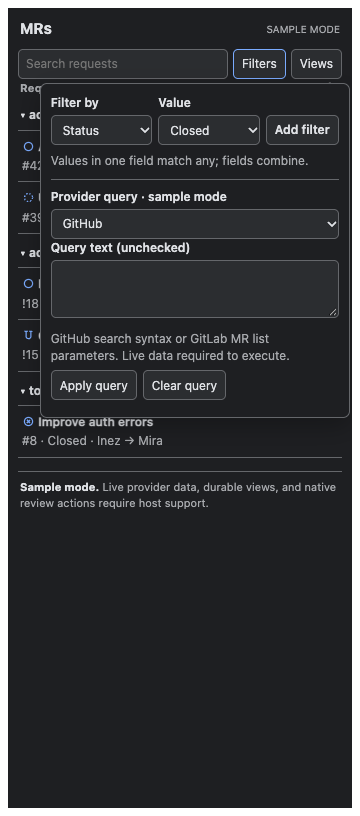
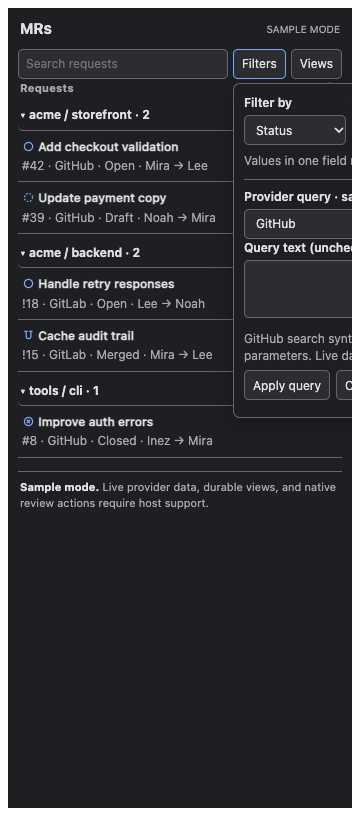
gnhf 1: Fixed all six compact MRs sidebar review findings and verified the updated panel.

Changed region(s): [[0.0917, 0.0919, 0.9778, 0.5515], [0.5194, 0.5208, 0.5806, 0.5515], [0.6417, 0.4902, 0.6722, 0.5208]]

diff --git a/plugins/mrs-panel-modern/panel/index.html b/plugins/mrs-panel-modern/panel/index.html
@@ -1,6 +1,6 @@
 <!doctype html><html lang="en"><head><meta charset="utf-8"><meta name="viewport" content="width=device-width,initial-scale=1"><title>MRs · sample mode</title><style>
 :root{font:12px/1.45 -apple-system,BlinkMacSystemFont,"Segoe UI",sans-serif;--bg:var(--orca-background,var(--background,#1e1f22));--fg:var(--orca-foreground,var(--foreground,#dfe1e5));--surface:var(--orca-card,var(--card,#2b2d30));--stroke:var(--orca-border,var(--border,#65676b));--muted:var(--orca-muted-foreground,var(--muted-foreground,#a7a9ad));--accent:var(--orca-primary,var(--primary,#6a99f8))}html.light{color-scheme:light}html.dark{color-scheme:dark}
-*{box-sizing:border-box}body{margin:0;min-width:0;background:var(--bg);color:var(--fg)}main{width:100%;min-width:0;padding:10px 10px 20px}header{display:flex;align-items:center;gap:8px;padding:0 2px 9px}h1{font-size:15px;margin:0}.badge{margin-left:auto;color:var(--muted);font-size:10px;white-space:nowrap}h2{margin:0 2px 5px;font-size:11px;color:var(--muted);letter-spacing:.02em}section+section{margin-top:10px}.toolbar{display:flex;gap:5px;position:relative}.search{flex:1;min-width:0}.field{min-width:0}.row{display:flex;flex-wrap:wrap;gap:6px}.row>.field{flex:1 1 100px}label{display:block;margin-bottom:4px;font-weight:600}select,input,textarea,button,summary{font:inherit;color:var(--fg)}select,input,textarea{width:100%;min-width:0;padding:4px 7px;border:1px solid var(--stroke);border-radius:5px;background:var(--surface)}select,input{height:30px}textarea{min-height:58px;resize:vertical}button,summary{min-height:30px;padding:5px 8px;border:1px solid var(--stroke);border-radius:5px;background:var(--surface);cursor:pointer}button:hover,summary:hover{border-color:var(--accent)}:is(select,input,textarea,button,summary):focus-visible{outline:2px solid var(--accent);outline-offset:2px}.menu{position:relative}.menu summary{list-style:none;white-space:nowrap}.menu summary::-webkit-details-marker{display:none}.menu-body{position:absolute;z-index:2;right:0;top:34px;width:min(310px,calc(100vw - 20px));padding:10px;border:1px solid var(--stroke);border-radius:7px;background:var(--bg);box-shadow:0 8px 24px #0004}.menu-body .row+ .row{margin-top:6px}#filter-menu .menu-body{right:-64px}.action{align-self:end;font-weight:600}.query-editor{margin-top:9px;padding-top:8px;border-top:1px solid var(--stroke)}.query-actions{display:flex;gap:6px;margin-top:6px}.query-error{color:var(--fg)}.chips{display:flex;flex-wrap:wrap;gap:5px;margin-top:6px}.chips:empty{display:none}.chip{max-width:100%;min-height:24px;padding:2px 7px;border-radius:14px;overflow:hidden;text-overflow:ellipsis;white-space:nowrap}.hint,.meta{color:var(--muted);overflow-wrap:anywhere}.hint{margin:7px 0 0}.notice{margin-top:13px;padding:7px 2px;border-top:1px solid var(--stroke);color:var(--muted);font-size:11px}.notice strong{color:var(--fg)}p{margin:0;overflow-wrap:anywhere}.result-heading{display:flex;align-items:baseline}.result-heading span{margin-left:auto;color:var(--muted)}.repo{min-width:0}.repo+.repo{margin-top:4px}.repo-title{display:block;width:100%;text-align:left;border:0;border-radius:0;border-bottom:1px solid var(--stroke);padding:5px 2px;background:transparent;font-weight:650;overflow-wrap:anywhere}.repo-title:hover,.mr:hover{background:var(--surface)}.mr{display:block;width:100%;text-align:left;border:0;border-bottom:1px solid var(--stroke);border-radius:0;padding:7px 4px;min-width:0;background:transparent}.mr-title{font-weight:550;overflow-wrap:anywhere}.meta{margin-top:2px}.status{display:inline-block;width:13px;height:13px;vertical-align:-2px;color:var(--accent)}.empty{padding:14px 2px;color:var(--muted)}.detail-back{margin-bottom:10px}.detail h2{color:var(--fg);font-size:15px;letter-spacing:0;margin:0 0 8px}.detail p{margin:6px 0}
+*{box-sizing:border-box}body{margin:0;min-width:0;background:var(--bg);color:var(--fg)}main{width:100%;min-width:0;padding:10px 10px 20px}header{display:flex;align-items:center;gap:8px;padding:0 2px 9px}h1{font-size:15px;margin:0}.badge{margin-left:auto;color:var(--muted);font-size:10px;white-space:nowrap}h2{margin:0 2px 5px;font-size:11px;color:var(--muted);letter-spacing:.02em}section+section{margin-top:10px}.toolbar{display:flex;gap:5px;position:relative}.search{flex:1;min-width:0}.field{min-width:0}.row{display:flex;flex-wrap:wrap;gap:6px}.row>.field{flex:1 1 100px}label{display:block;margin-bottom:4px;font-weight:600}select,input,textarea,button,summary{font:inherit;color:var(--fg)}select,input,textarea{width:100%;min-width:0;padding:4px 7px;border:1px solid var(--stroke);border-radius:5px;background:var(--surface)}select,input{height:30px}textarea{min-height:58px;resize:vertical}button,summary{min-height:30px;padding:5px 8px;border:1px solid var(--stroke);border-radius:5px;background:var(--surface);cursor:pointer}button:hover,summary:hover{border-color:var(--accent)}:is(select,input,textarea,button,summary):focus-visible{outline:2px solid var(--accent);outline-offset:2px}.menu{position:relative}.menu summary{list-style:none;white-space:nowrap}.menu summary::-webkit-details-marker{display:none}.menu-body{position:absolute;z-index:2;top:34px;width:min(310px,calc(100vw - 20px));padding:10px;border:1px solid var(--stroke);border-radius:7px;background:var(--bg);box-shadow:0 8px 24px #0004}.menu-body .row+ .row{margin-top:6px}.action{align-self:end;font-weight:600}.query-editor{margin-top:9px;padding-top:8px;border-top:1px solid var(--stroke)}.query-actions{display:flex;gap:6px;margin-top:6px}.query-error{color:var(--fg)}.chips{display:flex;flex-wrap:wrap;gap:5px;margin-top:6px}.chips:empty{display:none}.chip{max-width:100%;min-height:24px;padding:2px 7px;border-radius:14px;overflow:hidden;text-overflow:ellipsis;white-space:nowrap}.hint,.meta{color:var(--muted);overflow-wrap:anywhere}.hint{margin:7px 0 0}.notice{margin-top:13px;padding:7px 2px;border-top:1px solid var(--stroke);color:var(--muted);font-size:11px}.notice strong{color:var(--fg)}p{margin:0;overflow-wrap:anywhere}.result-heading{display:flex;align-items:baseline}.result-heading span{margin-left:auto;color:var(--muted)}.repo{min-width:0}.repo+.repo{margin-top:4px}.repo-title{display:block;width:100%;text-align:left;border:0;border-bottom:1px solid var(--stroke);padding:5px 2px;background:transparent;font-weight:650;overflow-wrap:anywhere}.repo-title:hover,.mr:hover{background:var(--surface)}.mr{display:block;width:100%;text-align:left;border:0;border-bottom:1px solid var(--stroke);border-radius:0;padding:7px 4px;min-width:0;background:transparent}.mr-title{font-weight:550;overflow-wrap:anywhere}.meta{margin-top:2px}.status{display:inline-block;width:13px;height:13px;vertical-align:-2px;color:var(--accent)}.empty{padding:14px 2px;color:var(--muted)}.detail-back{margin-bottom:10px}.detail h2{color:var(--fg);font-size:15px;letter-spacing:0;margin:0 0 8px}.detail p{margin:6px 0}
 </style></head><body><main>
 <header><h1>MRs</h1><span class="badge">SAMPLE MODE</span></header>
 <div id="list-view"><div class="toolbar"><input id="search" class="search" aria-label="Search sample requests" placeholder="Search requests"><details class="menu" id="filter-menu"><summary>Filters</summary><div class="menu-body"><div class="row"><div class="field"><label for="filter-field">Filter by</label><select id="filter-field"></select></div><div class="field"><label for="filter-value">Value</label><select id="filter-value"></select></div><button id="add-filter" class="action" type="button">Add filter</button></div><p class="hint">Values in one field match any; fields combine.</p><div class="query-editor"><div class="field"><label for="query-provider">Provider query · sample mode</label><select id="query-provider"><option>GitHub</option><option>GitLab</option></select></div><div class="field"><label for="provider-query">Query text (unchecked)</label><textarea id="provider-query" rows="2" spellcheck="false" autocomplete="off" aria-describedby="query-hint query-error"></textarea></div><p id="query-hint" class="hint">GitHub search syntax or GitLab MR list parameters. Live data required to execute.</p><div class="query-actions"><button id="apply-query" type="button">Apply query</button><button id="clear-query" type="button">Clear query</button></div><p id="query-error" class="hint query-error" role="alert"></p></div></div></details><details class="menu" id="view-menu"><summary>Views</summary><div class="menu-body"><div class="row"><div class="field"><label for="preset-list">Saved views · session only</label><select id="preset-list"><option value="">Choose a view</option></select></div><button id="apply-preset" class="action" type="button">Apply view</button></div><div class="row"><div class="field"><label for="preset-name">View name</label><input id="preset-name" maxlength="40" autocomplete="off" placeholder="Name this view"></div><button id="save-preset" class="action" type="button">Save view</button></div><p id="preset-message" class="hint" role="status" aria-live="polite">Views last until this panel closes.</p></div></details></div><div id="chips" class="chips" aria-label="Active filters"></div><section aria-labelledby="results-heading"><div class="result-heading"><h2 id="results-heading">Requests</h2><span id="result-count" role="status" aria-live="polite"></span></div><div id="results"></div></section></div><div id="detail-view" class="detail" hidden></div>
@@ -18,30 +18,31 @@ const option=(text,val)=>{const el=document.createElement('option');el.textConte
 Object.entries(fields).forEach(([key,label])=>field.append(option(label,key)));
 function updateValues(){const previous=value.value;value.replaceChildren();[...new Set(items.map(item=>item[field.value]))].sort().forEach(v=>value.append(option(v,v)));if([...value.options].some(o=>o.value===previous))value.value=previous}
 function render(){
-$('chips').replaceChildren();filters.forEach(({key,val})=>{const chip=document.createElement('button');chip.type='button';chip.className='chip';chip.setAttribute('aria-label','Remove '+fields[key]+': '+val+' filter');chip.title=fields[key]+': '+val;chip.textContent=fields[key]+': '+val+' ×';chip.addEventListener('click',()=>{filters=filters.filter(f=>f.key!==key||f.val!==val);render();$('add-filter').focus()});$('chips').append(chip)});
+$('chips').replaceChildren();filters.forEach(({key,val})=>{const chip=document.createElement('button');chip.type='button';chip.className='chip';chip.setAttribute('aria-label','Remove '+fields[key]+': '+val+' filter');chip.title=fields[key]+': '+val;chip.textContent=fields[key]+': '+val+' ×';chip.addEventListener('click',()=>{filters=filters.filter(f=>f.key!==key||f.val!==val);render();$('filter-menu').querySelector('summary').focus()});$('chips').append(chip)});
 if(nativeQuery.raw.trim()){const chip=document.createElement('span');chip.className='chip';chip.textContent=nativeQuery.provider+' query · not executed';$('chips').append(chip);$('result-count').textContent='Not executed';$('results').replaceChildren();const empty=document.createElement('p');empty.className='empty';empty.textContent='Not executed in sample mode — requires live provider data.';$('results').append(empty);return}
 const query=$('search').value.trim().toLowerCase();const shown=items.filter(item=>filters.every(({key})=>filters.some(f=>f.key===key&&f.val===item[key]))&&(!query||[item.title,item.id,item.repo,item.author].some(v=>v.toLowerCase().includes(query))));$('result-count').textContent=shown.length+' of '+items.length;const results=$('results');results.replaceChildren();
 if(!shown.length){const empty=document.createElement('p');empty.className='empty';empty.textContent='No sample MRs match these filters. Remove a filter to see more.';results.append(empty);return}
 const groups=new Map();shown.forEach(item=>{if(!groups.has(item.repo))groups.set(item.repo,[]);groups.get(item.repo).push(item)});
-groups.forEach((rows,repo)=>{const section=document.createElement('section');section.className='repo';section.setAttribute('aria-label',repo);const heading=document.createElement('button');heading.type='button';heading.className='repo-title';heading.textContent=(collapsed.has(repo)?'▸ ':'▾ ')+repo+' · '+rows.length;heading.setAttribute('aria-expanded',String(!collapsed.has(repo)));heading.addEventListener('click',()=>{collapsed.has(repo)?collapsed.delete(repo):collapsed.add(repo);render();results.querySelector('[aria-label="'+repo+'"] .repo-title').focus()});section.append(heading);if(!collapsed.has(repo))rows.forEach(item=>{const row=document.createElement('button');row.type='button';row.className='mr';row.setAttribute('aria-label',item.title+' details');const title=document.createElement('div');title.className='mr-title';const icon=document.createElement('span');icon.className='status';icon.setAttribute('aria-hidden','true');icon.innerHTML='<svg viewBox="0 0 16 16" fill="none" stroke="currentColor" stroke-width="1.5">'+({Open:'<circle cx="8" cy="8" r="5"/>',Draft:'<circle cx="8" cy="8" r="5" stroke-dasharray="2 2"/>',Merged:'<path d="M5 3v6a3 3 0 0 0 6 0V3M3 3h4M9 3h4"/>',Closed:'<circle cx="8" cy="8" r="5"/><path d="m6 6 4 4m0-4-4 4"/>'}[item.status])+'</svg>';title.append(icon,' '+item.title);const meta=document.createElement('div');meta.className='meta';meta.textContent=item.id+' · '+item.status+' · '+item.author+' → '+item.assignee;row.append(title,meta);row.addEventListener('click',()=>showDetail(item));section.append(row)});results.append(section)})}
+groups.forEach((rows,repo)=>{const section=document.createElement('section');section.className='repo';section.setAttribute('aria-label',repo);const heading=document.createElement('button');heading.type='button';heading.className='repo-title';heading.textContent=(collapsed.has(repo)?'▸ ':'▾ ')+repo+' · '+rows.length;heading.setAttribute('aria-expanded',String(!collapsed.has(repo)));heading.addEventListener('click',()=>{collapsed.has(repo)?collapsed.delete(repo):collapsed.add(repo);render();results.querySelector('[aria-label="'+repo+'"] .repo-title').focus()});section.append(heading);if(!collapsed.has(repo))rows.forEach(item=>{const row=document.createElement('button');row.type='button';row.className='mr';row.setAttribute('aria-label',item.title+' details');const title=document.createElement('div');title.className='mr-title';const icon=document.createElement('span');icon.className='status';icon.setAttribute('aria-hidden','true');icon.innerHTML='<svg viewBox="0 0 16 16" fill="none" stroke="currentColor" stroke-width="1.5">'+({Open:'<circle cx="8" cy="8" r="5"/>',Draft:'<circle cx="8" cy="8" r="5" stroke-dasharray="2 2"/>',Merged:'<path d="M5 3v6a3 3 0 0 0 6 0V3M3 3h4M9 3h4"/>',Closed:'<circle cx="8" cy="8" r="5"/><path d="m6 6 4 4m0-4-4 4"/>'}[item.status])+'</svg>';title.append(icon,' '+item.title);const meta=document.createElement('div');meta.className='meta';meta.textContent=item.id+' · '+item.provider+' · '+item.status+' · '+item.author+' → '+item.assignee;row.append(title,meta);row.addEventListener('click',()=>showDetail(item));section.append(row)});results.append(section)})}
 function showDetail(item){selected=item;$('list-view').hidden=true;const detail=$('detail-view');detail.hidden=false;detail.replaceChildren();const back=document.createElement('button');back.type='button';back.className='detail-back';back.textContent='← Requests';back.addEventListener('click',()=>{detail.hidden=true;$('list-view').hidden=false;const row=[...document.querySelectorAll('.mr')].find(el=>el.getAttribute('aria-label')===selected.title+' details');(row||$('search')).focus()});const title=document.createElement('h2');title.textContent=item.title;detail.append(back,title);for(const [label,text] of [['Request',item.repo+' '+item.id],['Provider',item.provider],['Status',item.status],['Author',item.author],['Assignee',item.assignee],['Reviewer',item.reviewer]]){const p=document.createElement('p');p.textContent=label+': '+text;detail.append(p)}back.focus()}
 function addFilter(){const key=field.value,val=value.value;if(val&&!filters.some(f=>f.key===key&&f.val===val))filters.push({key,val});render()}
 function queryError(provider,raw){
- const text=raw.trim();if(!text)return '';
+ const text=raw.trim();if(provider==='GitLab'&&/[\x00-\x1f\x7f-\x9f]/.test(raw))return 'Enter valid GitLab query parameters.';if(!text)return '';
  if(/^(?:[a-z][a-z\d+.-]*:\/\/|www\.|\/)/i.test(text))return 'Enter query text, not an API endpoint.';
  if(provider==='GitHub')return '';
- if(/[^\x20-\x7e]/.test(raw)||/(?:^|[^%])%(?![\da-f]{2})|%[\da-f](?![\da-f])/i.test(raw))return 'Enter valid GitLab query parameters.';
+ if(/%(?![\da-f]{2})/i.test(raw))return 'Enter valid GitLab query parameters.';
  const parts=text.replace(/^\?/,'').split('&');
  if(parts.some(part=>!part.includes('=')||!part.slice(0,part.indexOf('='))||/[\s#?:/]/.test(part.slice(0,part.indexOf('=')))))return 'Enter GitLab key=value parameters separated by &.';
- if(parts.some(part=>/^(?:private_token|access_token|oauth_token|authorization|password|token|sudo)(?:\[|$)/i.test(new URLSearchParams(part).keys().next().value)))return 'Credential and control parameters are not accepted.';
+ let keys;try{keys=parts.map(part=>{const [key,...rest]=part.split('=');const decodedKey=decodeURIComponent(key.replace(/\+/g,' ')),decodedValue=decodeURIComponent(rest.join('=').replace(/\+/g,' '));if(/[\x00-\x1f\x7f-\x9f]/.test(decodedKey+decodedValue))throw Error();return decodedKey})}catch{return 'Enter valid GitLab query parameters.'}
+ if(keys.some(key=>/^(?:private_token|access_token|oauth_token|job_token|authorization|password|token|sudo)(?:\[|$)/i.test(key)))return 'Credential and control parameters are not accepted.';
  return '';
 }
 function resetDetail(){selected=null;$('detail-view').hidden=true;$('detail-view').replaceChildren();$('list-view').hidden=false}
 function applyQuery(){const provider=$('query-provider').value,raw=$('provider-query').value,error=queryError(provider,raw);$('query-error').textContent=error;if(error){$('provider-query').setAttribute('aria-invalid','true');$('provider-query').focus();return}$('provider-query').removeAttribute('aria-invalid');nativeQuery={provider,raw};resetDetail();render()}
 function clearQuery(){$('provider-query').value='';$('query-error').textContent='';$('provider-query').removeAttribute('aria-invalid');nativeQuery={provider:$('query-provider').value,raw:''};resetDetail();render()}
-field.addEventListener('change',updateValues);$('search').addEventListener('input',render);$('add-filter').addEventListener('click',addFilter);for(const control of [field,value])control.addEventListener('keydown',e=>{if(e.key==='Enter'){e.preventDefault();addFilter()}});for(const menu of document.querySelectorAll('.menu'))menu.addEventListener('keydown',e=>{if(e.key==='Escape'){menu.open=false;menu.querySelector('summary').focus()}});
+field.addEventListener('change',updateValues);$('search').addEventListener('input',render);$('add-filter').addEventListener('click',addFilter);for(const control of [field,value])control.addEventListener('keydown',e=>{if(e.key==='Enter'){e.preventDefault();addFilter()}});for(const menu of document.querySelectorAll('.menu')){menu.addEventListener('toggle',()=>{if(!menu.open)return;for(const other of document.querySelectorAll('.menu'))if(other!==menu)other.open=false;const body=menu.querySelector('.menu-body'),anchor=menu.getBoundingClientRect(),width=body.getBoundingClientRect().width;body.style.left=Math.max(10,Math.min(anchor.left,innerWidth-10-width))-anchor.left+'px'});menu.addEventListener('keydown',e=>{if(e.key==='Escape'){menu.open=false;menu.querySelector('summary').focus()}})}
 $('apply-query').addEventListener('click',applyQuery);$('clear-query').addEventListener('click',clearQuery);
-$('save-preset').addEventListener('click',()=>{const name=$('preset-name').value.trim();if(!name){$('preset-message').textContent='Enter a view name first.';$('preset-name').focus();return}presets.set(name,{filters:filters.map(f=>({...f})),search:$('search').value});const list=$('preset-list');list.replaceChildren(option('Choose a view',''));presets.forEach((_,label)=>list.append(option(label,label)));list.value=name;$('preset-message').textContent='Saved “'+name+'” for this panel session.'});
-$('apply-preset').addEventListener('click',()=>{const name=$('preset-list').value;if(!presets.has(name)){$('preset-message').textContent='Choose a saved view first.';return}const saved=presets.get(name);filters=saved.filters.map(f=>({...f}));$('search').value=saved.search;render();$('preset-message').textContent='Applied “'+name+'”.'});
+$('save-preset').addEventListener('click',()=>{const name=$('preset-name').value.trim();if(!name){$('preset-message').textContent='Enter a view name first.';$('preset-name').focus();return}presets.set(name,{filters:filters.map(f=>({...f})),search:$('search').value,nativeQuery:{...nativeQuery}});const list=$('preset-list');list.replaceChildren(option('Choose a view',''));presets.forEach((_,label)=>list.append(option(label,label)));list.value=name;$('preset-message').textContent='Saved “'+name+'” for this panel session.'});
+$('apply-preset').addEventListener('click',()=>{const name=$('preset-list').value;if(!presets.has(name)){$('preset-message').textContent='Choose a saved view first.';return}const saved=presets.get(name);filters=saved.filters.map(f=>({...f}));$('search').value=saved.search;nativeQuery={...saved.nativeQuery};$('query-provider').value=nativeQuery.provider;$('provider-query').value=nativeQuery.raw;$('query-error').textContent='';$('provider-query').removeAttribute('aria-invalid');resetDetail();render();$('preset-message').textContent='Applied “'+name+'”.'});
 updateValues();render();
 </script></body></html>

diff --git a/plugins/mrs-panel/panel/index.html b/plugins/mrs-panel/panel/index.html
@@ -1,6 +1,6 @@
 <!doctype html><html lang="en"><head><meta charset="utf-8"><meta name="viewport" content="width=device-width,initial-scale=1"><title>MRs · sample mode</title><style>
 :root{font:12px/1.45 -apple-system,BlinkMacSystemFont,"Segoe UI",sans-serif;--bg:var(--orca-background,var(--background,#1e1f22));--fg:var(--orca-foreground,var(--foreground,#dfe1e5));--surface:var(--orca-card,var(--card,#2b2d30));--stroke:var(--orca-border,var(--border,#65676b));--muted:var(--orca-muted-foreground,var(--muted-foreground,#a7a9ad));--accent:var(--orca-primary,var(--primary,#6a99f8))}html.light{color-scheme:light}html.dark{color-scheme:dark}
-*{box-sizing:border-box}body{margin:0;min-width:0;background:var(--bg);color:var(--fg)}main{width:100%;min-width:0;padding:10px 10px 20px}header{display:flex;align-items:center;gap:8px;padding:0 2px 9px}h1{font-size:15px;margin:0}.badge{margin-left:auto;color:var(--muted);font-size:10px;white-space:nowrap}h2{margin:0 2px 5px;font-size:11px;color:var(--muted);letter-spacing:.02em}section+section{margin-top:10px}.toolbar{display:flex;gap:5px;position:relative}.search{flex:1;min-width:0}.field{min-width:0}.row{display:flex;flex-wrap:wrap;gap:6px}.row>.field{flex:1 1 100px}label{display:block;margin-bottom:4px;font-weight:600}select,input,textarea,button,summary{font:inherit;color:var(--fg)}select,input,textarea{width:100%;min-width:0;padding:4px 7px;border:1px solid var(--stroke);border-radius:5px;background:var(--surface)}select,input{height:30px}textarea{min-height:58px;resize:vertical}button,summary{min-height:30px;padding:5px 8px;border:1px solid var(--stroke);border-radius:5px;background:var(--surface);cursor:pointer}button:hover,summary:hover{border-color:var(--accent)}:is(select,input,textarea,button,summary):focus-visible{outline:2px solid var(--accent);outline-offset:2px}.menu{position:relative}.menu summary{list-style:none;white-space:nowrap}.menu summary::-webkit-details-marker{display:none}.menu-body{position:absolute;z-index:2;right:0;top:34px;width:min(310px,calc(100vw - 20px));padding:10px;border:1px solid var(--stroke);border-radius:7px;background:var(--bg);box-shadow:0 8px 24px #0004}.menu-body .row+ .row{margin-top:6px}#filter-menu .menu-body{right:-64px}.action{align-self:end;font-weight:600}.query-editor{margin-top:9px;padding-top:8px;border-top:1px solid var(--stroke)}.query-actions{display:flex;gap:6px;margin-top:6px}.query-error{color:var(--fg)}.chips{display:flex;flex-wrap:wrap;gap:5px;margin-top:6px}.chips:empty{display:none}.chip{max-width:100%;min-height:24px;padding:2px 7px;border-radius:14px;overflow:hidden;text-overflow:ellipsis;white-space:nowrap}.hint,.meta{color:var(--muted);overflow-wrap:anywhere}.hint{margin:7px 0 0}.notice{margin-top:13px;padding:7px 2px;border-top:1px solid var(--stroke);color:var(--muted);font-size:11px}.notice strong{color:var(--fg)}p{margin:0;overflow-wrap:anywhere}.result-heading{display:flex;align-items:baseline}.result-heading span{margin-left:auto;color:var(--muted)}.repo{min-width:0}.repo+.repo{margin-top:4px}.repo-title{display:block;width:100%;text-align:left;border:0;border-radius:0;border-bottom:1px solid var(--stroke);padding:5px 2px;background:transparent;font-weight:650;overflow-wrap:anywhere}.repo-title:hover,.mr:hover{background:var(--surface)}.mr{display:block;width:100%;text-align:left;border:0;border-bottom:1px solid var(--stroke);border-radius:0;padding:7px 4px;min-width:0;background:transparent}.mr-title{font-weight:550;overflow-wrap:anywhere}.meta{margin-top:2px}.status{display:inline-block;width:13px;height:13px;vertical-align:-2px;color:var(--accent)}.empty{padding:14px 2px;color:var(--muted)}.detail-back{margin-bottom:10px}.detail h2{color:var(--fg);font-size:15px;letter-spacing:0;margin:0 0 8px}.detail p{margin:6px 0}
+*{box-sizing:border-box}body{margin:0;min-width:0;background:var(--bg);color:var(--fg)}main{width:100%;min-width:0;padding:10px 10px 20px}header{display:flex;align-items:center;gap:8px;padding:0 2px 9px}h1{font-size:15px;margin:0}.badge{margin-left:auto;color:var(--muted);font-size:10px;white-space:nowrap}h2{margin:0 2px 5px;font-size:11px;color:var(--muted);letter-spacing:.02em}section+section{margin-top:10px}.toolbar{display:flex;gap:5px;position:relative}.search{flex:1;min-width:0}.field{min-width:0}.row{display:flex;flex-wrap:wrap;gap:6px}.row>.field{flex:1 1 100px}label{display:block;margin-bottom:4px;font-weight:600}select,input,textarea,button,summary{font:inherit;color:var(--fg)}select,input,textarea{width:100%;min-width:0;padding:4px 7px;border:1px solid var(--stroke);border-radius:5px;background:var(--surface)}select,input{height:30px}textarea{min-height:58px;resize:vertical}button,summary{min-height:30px;padding:5px 8px;border:1px solid var(--stroke);border-radius:5px;background:var(--surface);cursor:pointer}button:hover,summary:hover{border-color:var(--accent)}:is(select,input,textarea,button,summary):focus-visible{outline:2px solid var(--accent);outline-offset:2px}.menu{position:relative}.menu summary{list-style:none;white-space:nowrap}.menu summary::-webkit-details-marker{display:none}.menu-body{position:absolute;z-index:2;top:34px;width:min(310px,calc(100vw - 20px));padding:10px;border:1px solid var(--stroke);border-radius:7px;background:var(--bg);box-shadow:0 8px 24px #0004}.menu-body .row+ .row{margin-top:6px}.action{align-self:end;font-weight:600}.query-editor{margin-top:9px;padding-top:8px;border-top:1px solid var(--stroke)}.query-actions{display:flex;gap:6px;margin-top:6px}.query-error{color:var(--fg)}.chips{display:flex;flex-wrap:wrap;gap:5px;margin-top:6px}.chips:empty{display:none}.chip{max-width:100%;min-height:24px;padding:2px 7px;border-radius:14px;overflow:hidden;text-overflow:ellipsis;white-space:nowrap}.hint,.meta{color:var(--muted);overflow-wrap:anywhere}.hint{margin:7px 0 0}.notice{margin-top:13px;padding:7px 2px;border-top:1px solid var(--stroke);color:var(--muted);font-size:11px}.notice strong{color:var(--fg)}p{margin:0;overflow-wrap:anywhere}.result-heading{display:flex;align-items:baseline}.result-heading span{margin-left:auto;color:var(--muted)}.repo{min-width:0}.repo+.repo{margin-top:4px}.repo-title{display:block;width:100%;text-align:left;border:0;border-bottom:1px solid var(--stroke);padding:5px 2px;background:transparent;font-weight:650;overflow-wrap:anywhere}.repo-title:hover,.mr:hover{background:var(--surface)}.mr{display:block;width:100%;text-align:left;border:0;border-bottom:1px solid var(--stroke);border-radius:0;padding:7px 4px;min-width:0;background:transparent}.mr-title{font-weight:550;overflow-wrap:anywhere}.meta{margin-top:2px}.status{display:inline-block;width:13px;height:13px;vertical-align:-2px;color:var(--accent)}.empty{padding:14px 2px;color:var(--muted)}.detail-back{margin-bottom:10px}.detail h2{color:var(--fg);font-size:15px;letter-spacing:0;margin:0 0 8px}.detail p{margin:6px 0}
 </style></head><body><main>
 <header><h1>MRs</h1><span class="badge">SAMPLE MODE</span></header>
 <div id="list-view"><div class="toolbar"><input id="search" class="search" aria-label="Search sample requests" placeholder="Search requests"><details class="menu" id="filter-menu"><summary>Filters</summary><div class="menu-body"><div class="row"><div class="field"><label for="filter-field">Filter by</label><select id="filter-field"></select></div><div class="field"><label for="filter-value">Value</label><select id="filter-value"></select></div><button id="add-filter" class="action" type="button">Add filter</button></div><p class="hint">Values in one field match any; fields combine.</p><div class="query-editor"><div class="field"><label for="query-provider">Provider query · sample mode</label><select id="query-provider"><option>GitHub</option><option>GitLab</option></select></div><div class="field"><label for="provider-query">Query text (unchecked)</label><textarea id="provider-query" rows="2" spellcheck="false" autocomplete="off" aria-describedby="query-hint query-error"></textarea></div><p id="query-hint" class="hint">GitHub search syntax or GitLab MR list parameters. Live data required to execute.</p><div class="query-actions"><button id="apply-query" type="button">Apply query</button><button id="clear-query" type="button">Clear query</button></div><p id="query-error" class="hint query-error" role="alert"></p></div></div></details><details class="menu" id="view-menu"><summary>Views</summary><div class="menu-body"><div class="row"><div class="field"><label for="preset-list">Saved views · session only</label><select id="preset-list"><option value="">Choose a view</option></select></div><button id="apply-preset" class="action" type="button">Apply view</button></div><div class="row"><div class="field"><label for="preset-name">View name</label><input id="preset-name" maxlength="40" autocomplete="off" placeholder="Name this view"></div><button id="save-preset" class="action" type="button">Save view</button></div><p id="preset-message" class="hint" role="status" aria-live="polite">Views last until this panel closes.</p></div></details></div><div id="chips" class="chips" aria-label="Active filters"></div><section aria-labelledby="results-heading"><div class="result-heading"><h2 id="results-heading">Requests</h2><span id="result-count" role="status" aria-live="polite"></span></div><div id="results"></div></section></div><div id="detail-view" class="detail" hidden></div>
@@ -18,30 +18,31 @@ const option=(text,val)=>{const el=document.createElement('option');el.textConte
 Object.entries(fields).forEach(([key,label])=>field.append(option(label,key)));
 function updateValues(){const previous=value.value;value.replaceChildren();[...new Set(items.map(item=>item[field.value]))].sort().forEach(v=>value.append(option(v,v)));if([...value.options].some(o=>o.value===previous))value.value=previous}
 function render(){
-$('chips').replaceChildren();filters.forEach(({key,val})=>{const chip=document.createElement('button');chip.type='button';chip.className='chip';chip.setAttribute('aria-label','Remove '+fields[key]+': '+val+' filter');chip.title=fields[key]+': '+val;chip.textContent=fields[key]+': '+val+' ×';chip.addEventListener('click',()=>{filters=filters.filter(f=>f.key!==key||f.val!==val);render();$('add-filter').focus()});$('chips').append(chip)});
+$('chips').replaceChildren();filters.forEach(({key,val})=>{const chip=document.createElement('button');chip.type='button';chip.className='chip';chip.setAttribute('aria-label','Remove '+fields[key]+': '+val+' filter');chip.title=fields[key]+': '+val;chip.textContent=fields[key]+': '+val+' ×';chip.addEventListener('click',()=>{filters=filters.filter(f=>f.key!==key||f.val!==val);render();$('filter-menu').querySelector('summary').focus()});$('chips').append(chip)});
 if(nativeQuery.raw.trim()){const chip=document.createElement('span');chip.className='chip';chip.textContent=nativeQuery.provider+' query · not executed';$('chips').append(chip);$('result-count').textContent='Not executed';$('results').replaceChildren();const empty=document.createElement('p');empty.className='empty';empty.textContent='Not executed in sample mode — requires live provider data.';$('results').append(empty);return}
 const query=$('search').value.trim().toLowerCase();const shown=items.filter(item=>filters.every(({key})=>filters.some(f=>f.key===key&&f.val===item[key]))&&(!query||[item.title,item.id,item.repo,item.author].some(v=>v.toLowerCase().includes(query))));$('result-count').textContent=shown.length+' of '+items.length;const results=$('results');results.replaceChildren();
 if(!shown.length){const empty=document.createElement('p');empty.className='empty';empty.textContent='No sample MRs match these filters. Remove a filter to see more.';results.append(empty);return}
 const groups=new Map();shown.forEach(item=>{if(!groups.has(item.repo))groups.set(item.repo,[]);groups.get(item.repo).push(item)});
-groups.forEach((rows,repo)=>{const section=document.createElement('section');section.className='repo';section.setAttribute('aria-label',repo);const heading=document.createElement('button');heading.type='button';heading.className='repo-title';heading.textContent=(collapsed.has(repo)?'▸ ':'▾ ')+repo+' · '+rows.length;heading.setAttribute('aria-expanded',String(!collapsed.has(repo)));heading.addEventListener('click',()=>{collapsed.has(repo)?collapsed.delete(repo):collapsed.add(repo);render();results.querySelector('[aria-label="'+repo+'"] .repo-title').focus()});section.append(heading);if(!collapsed.has(repo))rows.forEach(item=>{const row=document.createElement('button');row.type='button';row.className='mr';row.setAttribute('aria-label',item.title+' details');const title=document.createElement('div');title.className='mr-title';const icon=document.createElement('span');icon.className='status';icon.setAttribute('aria-hidden','true');icon.innerHTML='<svg viewBox="0 0 16 16" fill="none" stroke="currentColor" stroke-width="1.5">'+({Open:'<circle cx="8" cy="8" r="5"/>',Draft:'<circle cx="8" cy="8" r="5" stroke-dasharray="2 2"/>',Merged:'<path d="M5 3v6a3 3 0 0 0 6 0V3M3 3h4M9 3h4"/>',Closed:'<circle cx="8" cy="8" r="5"/><path d="m6 6 4 4m0-4-4 4"/>'}[item.status])+'</svg>';title.append(icon,' '+item.title);const meta=document.createElement('div');meta.className='meta';meta.textContent=item.id+' · '+item.status+' · '+item.author+' → '+item.assignee;row.append(title,meta);row.addEventListener('click',()=>showDetail(item));section.append(row)});results.append(section)})}
+groups.forEach((rows,repo)=>{const section=document.createElement('section');section.className='repo';section.setAttribute('aria-label',repo);const heading=document.createElement('button');heading.type='button';heading.className='repo-title';heading.textContent=(collapsed.has(repo)?'▸ ':'▾ ')+repo+' · '+rows.length;heading.setAttribute('aria-expanded',String(!collapsed.has(repo)));heading.addEventListener('click',()=>{collapsed.has(repo)?collapsed.delete(repo):collapsed.add(repo);render();results.querySelector('[aria-label="'+repo+'"] .repo-title').focus()});section.append(heading);if(!collapsed.has(repo))rows.forEach(item=>{const row=document.createElement('button');row.type='button';row.className='mr';row.setAttribute('aria-label',item.title+' details');const title=document.createElement('div');title.className='mr-title';const icon=document.createElement('span');icon.className='status';icon.setAttribute('aria-hidden','true');icon.innerHTML='<svg viewBox="0 0 16 16" fill="none" stroke="currentColor" stroke-width="1.5">'+({Open:'<circle cx="8" cy="8" r="5"/>',Draft:'<circle cx="8" cy="8" r="5" stroke-dasharray="2 2"/>',Merged:'<path d="M5 3v6a3 3 0 0 0 6 0V3M3 3h4M9 3h4"/>',Closed:'<circle cx="8" cy="8" r="5"/><path d="m6 6 4 4m0-4-4 4"/>'}[item.status])+'</svg>';title.append(icon,' '+item.title);const meta=document.createElement('div');meta.className='meta';meta.textContent=item.id+' · '+item.provider+' · '+item.status+' · '+item.author+' → '+item.assignee;row.append(title,meta);row.addEventListener('click',()=>showDetail(item));section.append(row)});results.append(section)})}
 function showDetail(item){selected=item;$('list-view').hidden=true;const detail=$('detail-view');detail.hidden=false;detail.replaceChildren();const back=document.createElement('button');back.type='button';back.className='detail-back';back.textContent='← Requests';back.addEventListener('click',()=>{detail.hidden=true;$('list-view').hidden=false;const row=[...document.querySelectorAll('.mr')].find(el=>el.getAttribute('aria-label')===selected.title+' details');(row||$('search')).focus()});const title=document.createElement('h2');title.textContent=item.title;detail.append(back,title);for(const [label,text] of [['Request',item.repo+' '+item.id],['Provider',item.provider],['Status',item.status],['Author',item.author],['Assignee',item.assignee],['Reviewer',item.reviewer]]){const p=document.createElement('p');p.textContent=label+': '+text;detail.append(p)}back.focus()}
 function addFilter(){const key=field.value,val=value.value;if(val&&!filters.some(f=>f.key===key&&f.val===val))filters.push({key,val});render()}
 function queryError(provider,raw){
- const text=raw.trim();if(!text)return '';
+ const text=raw.trim();if(provider==='GitLab'&&/[\x00-\x1f\x7f-\x9f]/.test(raw))return 'Enter valid GitLab query parameters.';if(!text)return '';
  if(/^(?:[a-z][a-z\d+.-]*:\/\/|www\.|\/)/i.test(text))return 'Enter query text, not an API endpoint.';
  if(provider==='GitHub')return '';
- if(/[^\x20-\x7e]/.test(raw)||/(?:^|[^%])%(?![\da-f]{2})|%[\da-f](?![\da-f])/i.test(raw))return 'Enter valid GitLab query parameters.';
+ if(/%(?![\da-f]{2})/i.test(raw))return 'Enter valid GitLab query parameters.';
  const parts=text.replace(/^\?/,'').split('&');
  if(parts.some(part=>!part.includes('=')||!part.slice(0,part.indexOf('='))||/[\s#?:/]/.test(part.slice(0,part.indexOf('=')))))return 'Enter GitLab key=value parameters separated by &.';
- if(parts.some(part=>/^(?:private_token|access_token|oauth_token|authorization|password|token|sudo)(?:\[|$)/i.test(new URLSearchParams(part).keys().next().value)))return 'Credential and control parameters are not accepted.';
+ let keys;try{keys=parts.map(part=>{const [key,...rest]=part.split('=');const decodedKey=decodeURIComponent(key.replace(/\+/g,' ')),decodedValue=decodeURIComponent(rest.join('=').replace(/\+/g,' '));if(/[\x00-\x1f\x7f-\x9f]/.test(decodedKey+decodedValue))throw Error();return decodedKey})}catch{return 'Enter valid GitLab query parameters.'}
+ if(keys.some(key=>/^(?:private_token|access_token|oauth_token|job_token|authorization|password|token|sudo)(?:\[|$)/i.test(key)))return 'Credential and control parameters are not accepted.';
  return '';
 }
 function resetDetail(){selected=null;$('detail-view').hidden=true;$('detail-view').replaceChildren();$('list-view').hidden=false}
 function applyQuery(){const provider=$('query-provider').value,raw=$('provider-query').value,error=queryError(provider,raw);$('query-error').textContent=error;if(error){$('provider-query').setAttribute('aria-invalid','true');$('provider-query').focus();return}$('provider-query').removeAttribute('aria-invalid');nativeQuery={provider,raw};resetDetail();render()}
 function clearQuery(){$('provider-query').value='';$('query-error').textContent='';$('provider-query').removeAttribute('aria-invalid');nativeQuery={provider:$('query-provider').value,raw:''};resetDetail();render()}
-field.addEventListener('change',updateValues);$('search').addEventListener('input',render);$('add-filter').addEventListener('click',addFilter);for(const control of [field,value])control.addEventListener('keydown',e=>{if(e.key==='Enter'){e.preventDefault();addFilter()}});for(const menu of document.querySelectorAll('.menu'))menu.addEventListener('keydown',e=>{if(e.key==='Escape'){menu.open=false;menu.querySelector('summary').focus()}});
+field.addEventListener('change',updateValues);$('search').addEventListener('input',render);$('add-filter').addEventListener('click',addFilter);for(const control of [field,value])control.addEventListener('keydown',e=>{if(e.key==='Enter'){e.preventDefault();addFilter()}});for(const menu of document.querySelectorAll('.menu')){menu.addEventListener('toggle',()=>{if(!menu.open)return;for(const other of document.querySelectorAll('.menu'))if(other!==menu)other.open=false;const body=menu.querySelector('.menu-body'),anchor=menu.getBoundingClientRect(),width=body.getBoundingClientRect().width;body.style.left=Math.max(10,Math.min(anchor.left,innerWidth-10-width))-anchor.left+'px'});menu.addEventListener('keydown',e=>{if(e.key==='Escape'){menu.open=false;menu.querySelector('summary').focus()}})}
 $('apply-query').addEventListener('click',applyQuery);$('clear-query').addEventListener('click',clearQuery);
-$('save-preset').addEventListener('click',()=>{const name=$('preset-name').value.trim();if(!name){$('preset-message').textContent='Enter a view name first.';$('preset-name').focus();return}presets.set(name,{filters:filters.map(f=>({...f})),search:$('search').value});const list=$('preset-list');list.replaceChildren(option('Choose a view',''));presets.forEach((_,label)=>list.append(option(label,label)));list.value=name;$('preset-message').textContent='Saved “'+name+'” for this panel session.'});
-$('apply-preset').addEventListener('click',()=>{const name=$('preset-list').value;if(!presets.has(name)){$('preset-message').textContent='Choose a saved view first.';return}const saved=presets.get(name);filters=saved.filters.map(f=>({...f}));$('search').value=saved.search;render();$('preset-message').textContent='Applied “'+name+'”.'});
+$('save-preset').addEventListener('click',()=>{const name=$('preset-name').value.trim();if(!name){$('preset-message').textContent='Enter a view name first.';$('preset-name').focus();return}presets.set(name,{filters:filters.map(f=>({...f})),search:$('search').value,nativeQuery:{...nativeQuery}});const list=$('preset-list');list.replaceChildren(option('Choose a view',''));presets.forEach((_,label)=>list.append(option(label,label)));list.value=name;$('preset-message').textContent='Saved “'+name+'” for this panel session.'});
+$('apply-preset').addEventListener('click',()=>{const name=$('preset-list').value;if(!presets.has(name)){$('preset-message').textContent='Choose a saved view first.';return}const saved=presets.get(name);filters=saved.filters.map(f=>({...f}));$('search').value=saved.search;nativeQuery={...saved.nativeQuery};$('query-provider').value=nativeQuery.provider;$('provider-query').value=nativeQuery.raw;$('query-error').textContent='';$('provider-query').removeAttribute('aria-invalid');resetDetail();render();$('preset-message').textContent='Applied “'+name+'”.'});
 updateValues();render();
 </script></body></html>

diff --git a/RUN-NOTES.md b/RUN-NOTES.md
@@ -1,5 +1,9 @@
 # Marketplace implementation notes
 
+## Compact MRs interaction correction
+
+Session views now copy and restore applied provider queries exactly, including empty queries; applying a view clears stale validation and restores the correct sample state. GitLab accepts raw or encoded Unicode values while rejecting malformed parameters, control characters, and decoded credential keys including `job_token`. Both open menus stay within narrow sidebars and exclude each other; chip removal returns focus to Filters, and rows show their provider. The sandbox assertions reproduced the defects before the fixes and now cover the corrected behavior at 240/320/360/480 px. The generated modern panel matches the legacy HTML. Live requests and durable views remain unsupported by the observed host sandbox.
+
 ## Provider query editor increment
 
 The compact Filters popover now includes a labelled GitHub/GitLab provider query editor. It retains the exact entered GitHub search text or GitLab MR list parameter text, including unknown filters and duplicate or array parameters. A committed query explicitly shows “Not executed in sample mode — requires live provider data” instead of sample matches. Clear restores ordinary local filtering. Full endpoint input, malformed GitLab parameter strings, and GitLab credential/control parameters are rejected with generic messages; rejected input leaves the committed query unchanged. The panel sandbox test covers these cases and regenerates the [rendered screenshot](plugins/mrs-panel/screenshots/mrs-sidebar-sample.png).
